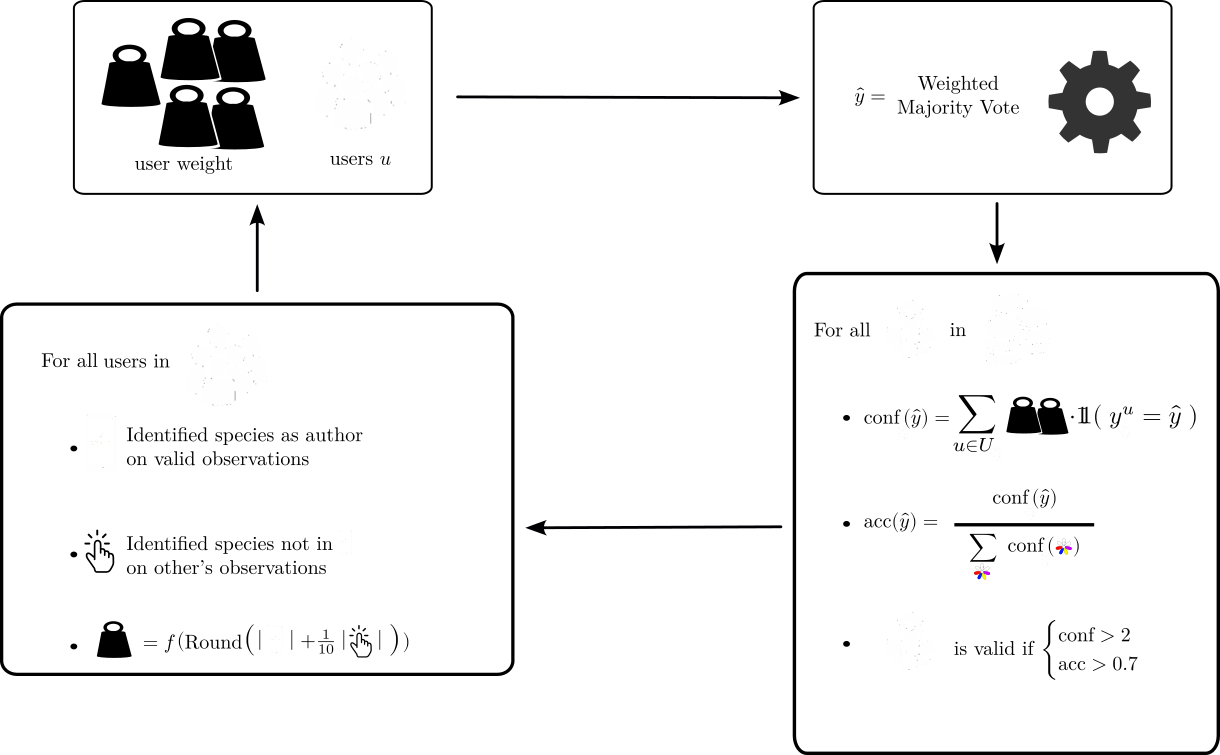
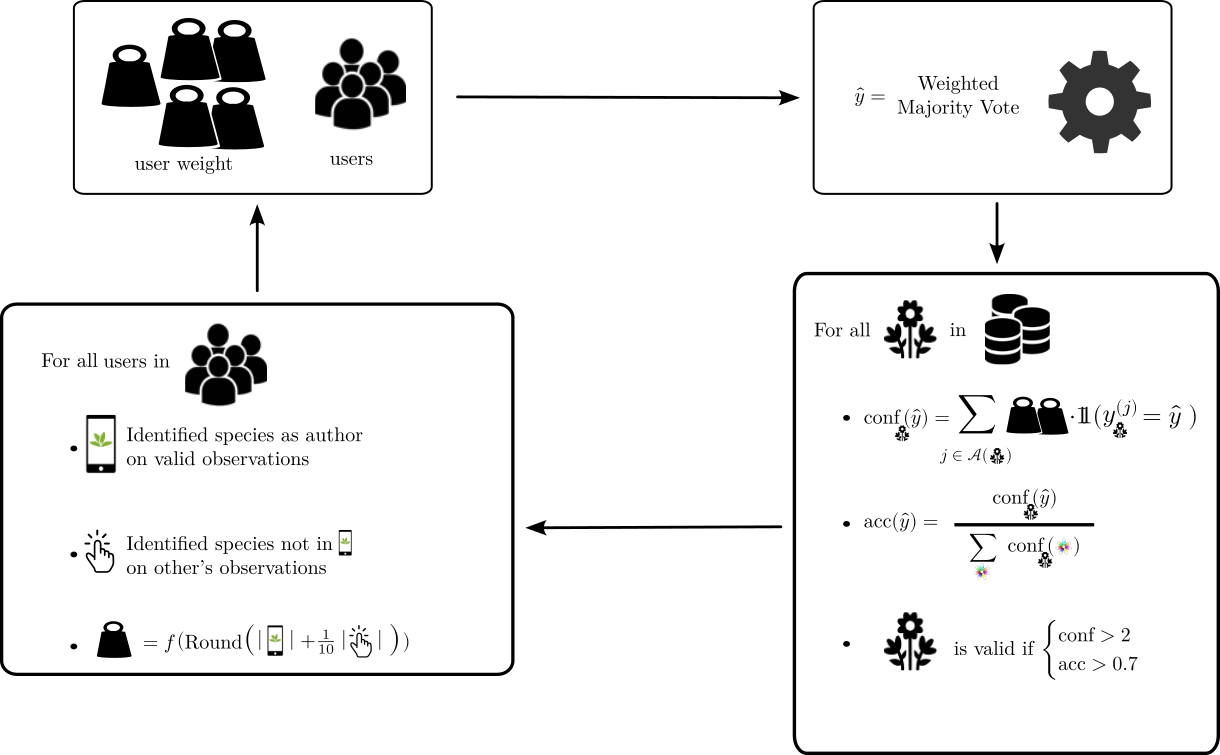
Built site for gh-pages

diff --git a/index.html b/index.html
@@ -357,6 +357,7 @@ Tanguy Lefort
 <li><a href="#/aggregate-labels" id="/toc-aggregate-labels">Aggregate labels</a></li>
 <li><a href="#/application-to-plntnet" id="/toc-application-to-plntnet">Application to Pl@ntNet</a></li>
 <li><a href="#/take-home-message" id="/toc-take-home-message">Take home message</a></li>
+<li><a href="#/thank-you" id="/toc-thank-you">Thank you</a></li>
 </ul>
 </nav>
 </section>
@@ -651,6 +652,10 @@ y^{(j)}|y^\star\sim\mathcal{M}\text{ultinomial}(\pi^{(j)}_{y^\star,\cdot})
 <h1>Application to Pl@ntNet</h1>
 
 </section>
+<section id="plntnet-system-in-short" class="slide level2 center">
+<h2>Pl@ntNet system (in short)</h2>
+
+<img data-src="./images/plantnet_schema_global_green.png" class="r-stretch"></section>
 <section id="plntet-aggregation" class="slide level2 center">
 <h2>Pl@ntet aggregation</h2>
 
@@ -675,8 +680,8 @@ y^{(j)}|y^\star\sim\mathcal{M}\text{ultinomial}(\pi^{(j)}_{y^\star,\cdot})
 </ul>
 
 <img data-src="./images/sankey_v2.png" class="r-stretch"></section>
-<section id="aggregation-strategies-that-scale" class="slide level2 center">
-<h2>Aggregation strategies that scale:</h2>
+<section id="scaling-aggregation-strategies" class="slide level2 center">
+<h2>Scaling aggregation strategies</h2>
 <ul>
 <li>Majority Vote</li>
 <li>WAWA: Majority Vote with worker weight=accuracy against MV</li>
@@ -689,12 +694,12 @@ y^{(j)}|y^\star\sim\mathcal{M}\text{ultinomial}(\pi^{(j)}_{y^\star,\cdot})
 </section>
 <section id="results" class="slide level2 center">
 <h2>Results</h2>
-<div class="quarto-layout-panel" data-layout="[[20,20]]">
+<div class="quarto-layout-panel" data-layout="[[19,21]]">
 <div class="quarto-layout-row quarto-layout-valign-center">
-<div class="quarto-layout-cell" style="flex-basis: 50.0%;justify-content: center;">
+<div class="quarto-layout-cell" style="flex-basis: 47.5%;justify-content: center;">
 <p><img data-src="./images/precision_and_recall_one_disagreeement__macro.png"></p>
 </div>
-<div class="quarto-layout-cell" style="flex-basis: 50.0%;justify-content: center;">
+<div class="quarto-layout-cell" style="flex-basis: 52.5%;justify-content: center;">
 <p><img data-src="./images/accuracy_by_vol_class_kept_one_disagreeement__micro.png"></p>
 </div>
 </div>
@@ -702,8 +707,23 @@ y^{(j)}|y^\star\sim\mathcal{M}\text{ultinomial}(\pi^{(j)}_{y^\star,\cdot})
 </section></section>
 <section id="take-home-message" class="title-slide slide level1 center">
 <h1>Take home message</h1>
-<p>dgshjk</p>
-<div class="quarto-auto-generated-content">
+<ul>
+<li>Crowdsourcing allows to collect data easily</li>
+<li>… but using this data efficiently requires expertise</li>
+<li>Improve input quality <span class="math inline">\(\Rightarrow\)</span> Improve output predictions</li>
+</ul>
+<div class="fragment">
+<ul>
+<li>Peerannot library for classification crowdsourced datasets</li>
+</ul>
+<p><img data-src="./images/qr-code-styling.png"></p>
+</div>
+</section>
+
+<section id="thank-you" class="title-slide slide level1 center">
+<h1>Thank you</h1>
+
+<img data-src="./images/nelumbo.png" class="r-stretch"><div class="quarto-auto-generated-content">
 <div class="footer footer-default">
 
 </div>

diff --git a/presentation.html b/presentation.html
@@ -357,6 +357,7 @@ Tanguy Lefort
 <li><a href="#/aggregate-labels" id="/toc-aggregate-labels">Aggregate labels</a></li>
 <li><a href="#/application-to-plntnet" id="/toc-application-to-plntnet">Application to Pl@ntNet</a></li>
 <li><a href="#/take-home-message" id="/toc-take-home-message">Take home message</a></li>
+<li><a href="#/thank-you" id="/toc-thank-you">Thank you</a></li>
 </ul>
 </nav>
 </section>
@@ -651,6 +652,10 @@ y^{(j)}|y^\star\sim\mathcal{M}\text{ultinomial}(\pi^{(j)}_{y^\star,\cdot})
 <h1>Application to Pl@ntNet</h1>
 
 </section>
+<section id="plntnet-system-in-short" class="slide level2 center">
+<h2>Pl@ntNet system (in short)</h2>
+
+<img data-src="./images/plantnet_schema_global_green.png" class="r-stretch"></section>
 <section id="plntet-aggregation" class="slide level2 center">
 <h2>Pl@ntet aggregation</h2>
 
@@ -675,8 +680,8 @@ y^{(j)}|y^\star\sim\mathcal{M}\text{ultinomial}(\pi^{(j)}_{y^\star,\cdot})
 </ul>
 
 <img data-src="./images/sankey_v2.png" class="r-stretch"></section>
-<section id="aggregation-strategies-that-scale" class="slide level2 center">
-<h2>Aggregation strategies that scale:</h2>
+<section id="scaling-aggregation-strategies" class="slide level2 center">
+<h2>Scaling aggregation strategies</h2>
 <ul>
 <li>Majority Vote</li>
 <li>WAWA: Majority Vote with worker weight=accuracy against MV</li>
@@ -689,12 +694,12 @@ y^{(j)}|y^\star\sim\mathcal{M}\text{ultinomial}(\pi^{(j)}_{y^\star,\cdot})
 </section>
 <section id="results" class="slide level2 center">
 <h2>Results</h2>
-<div class="quarto-layout-panel" data-layout="[[20,20]]">
+<div class="quarto-layout-panel" data-layout="[[19,21]]">
 <div class="quarto-layout-row quarto-layout-valign-center">
-<div class="quarto-layout-cell" style="flex-basis: 50.0%;justify-content: center;">
+<div class="quarto-layout-cell" style="flex-basis: 47.5%;justify-content: center;">
 <p><img data-src="./images/precision_and_recall_one_disagreeement__macro.png"></p>
 </div>
-<div class="quarto-layout-cell" style="flex-basis: 50.0%;justify-content: center;">
+<div class="quarto-layout-cell" style="flex-basis: 52.5%;justify-content: center;">
 <p><img data-src="./images/accuracy_by_vol_class_kept_one_disagreeement__micro.png"></p>
 </div>
 </div>
@@ -702,8 +707,23 @@ y^{(j)}|y^\star\sim\mathcal{M}\text{ultinomial}(\pi^{(j)}_{y^\star,\cdot})
 </section></section>
 <section id="take-home-message" class="title-slide slide level1 center">
 <h1>Take home message</h1>
-<p>dgshjk</p>
-<div class="quarto-auto-generated-content">
+<ul>
+<li>Crowdsourcing allows to collect data easily</li>
+<li>… but using this data efficiently requires expertise</li>
+<li>Improve input quality <span class="math inline">\(\Rightarrow\)</span> Improve output predictions</li>
+</ul>
+<div class="fragment">
+<ul>
+<li>Peerannot library for classification crowdsourced datasets</li>
+</ul>
+<p><img data-src="./images/qr-code-styling.png"></p>
+</div>
+</section>
+
+<section id="thank-you" class="title-slide slide level1 center">
+<h1>Thank you</h1>
+
+<img data-src="./images/nelumbo.png" class="r-stretch"><div class="quarto-auto-generated-content">
 <div class="footer footer-default">
 
 </div>
